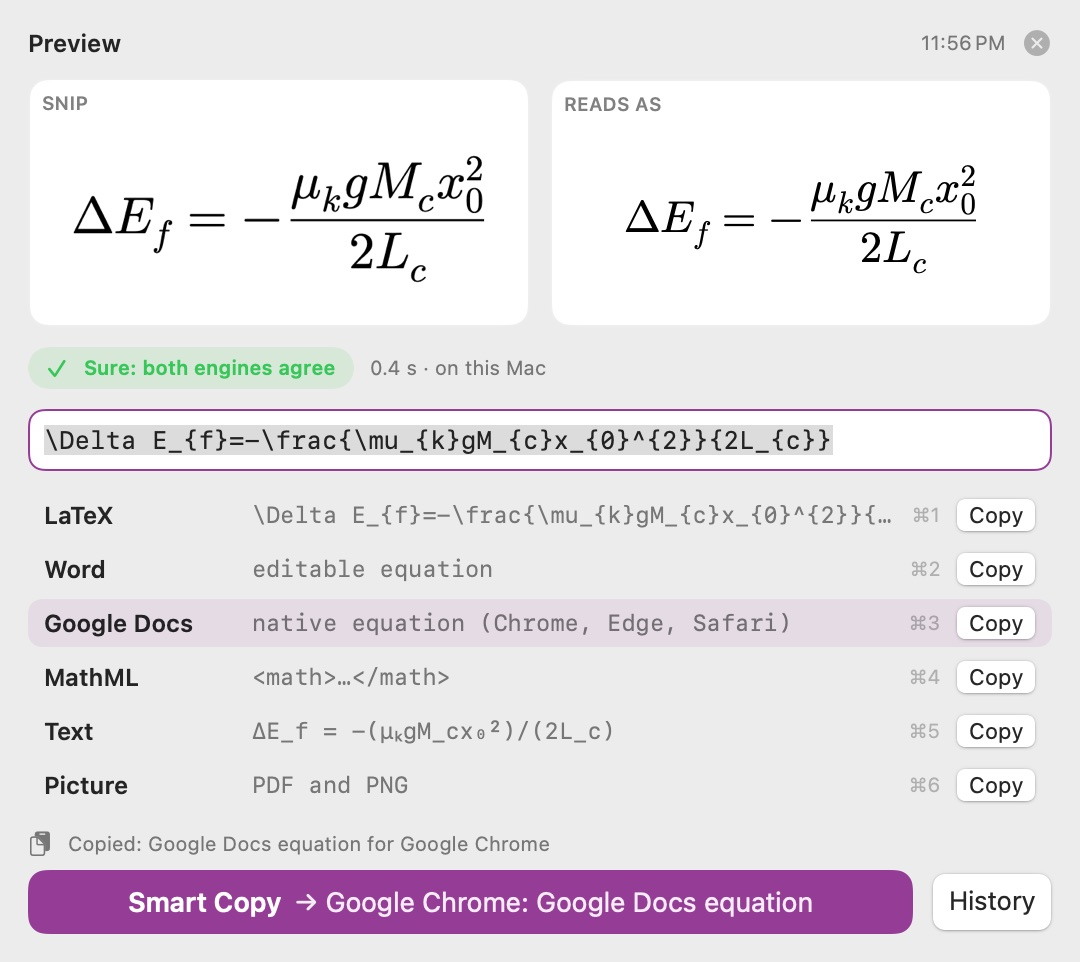
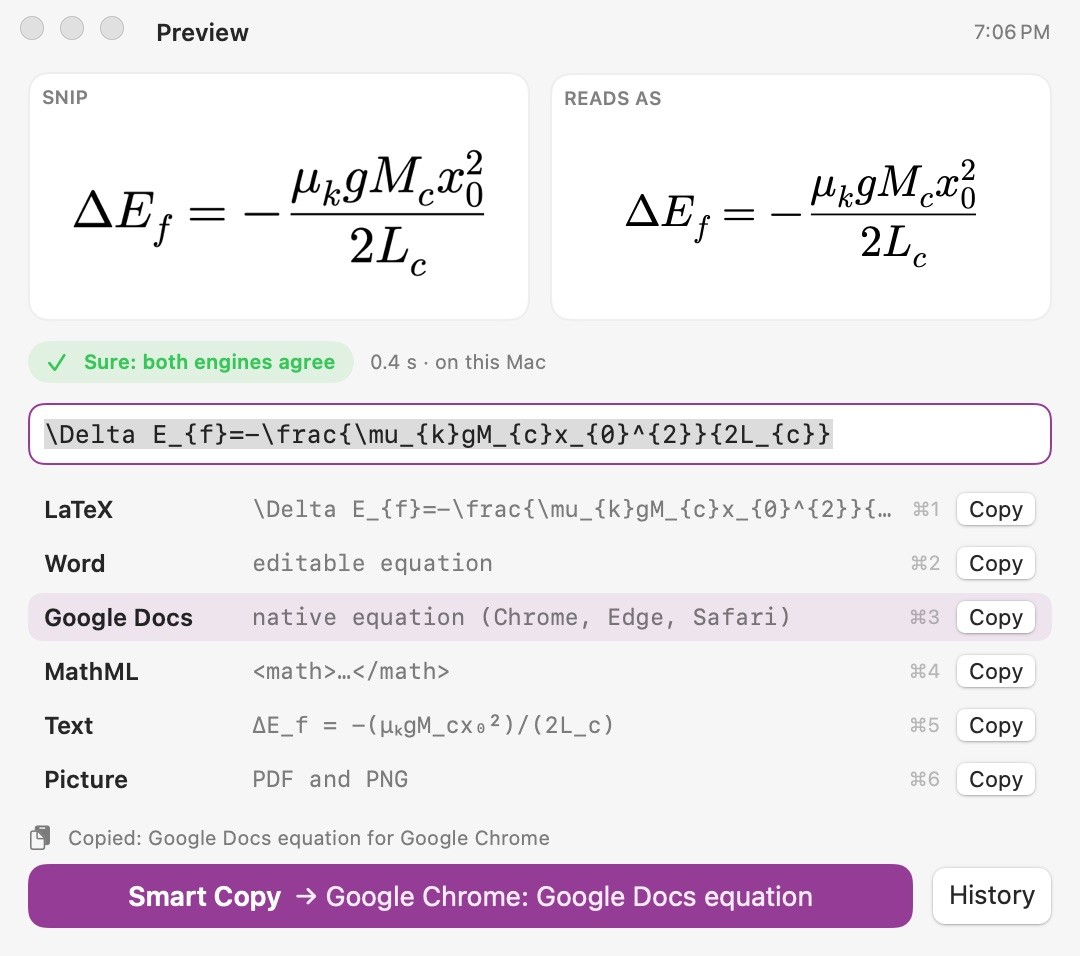
Publish Equate 1.0.1

diff --git a/apps/equate/readme.html b/apps/equate/readme.html
@@ -112,7 +112,7 @@ ol.rm .n{flex:none;width:24px;height:24px;border-radius:12px;display:grid;place-
 <main class="page readme">
   <div class="rmtop"><a class="back" href="./">&#8249; Equate</a><a href="../../readme/equate.txt">Plain text</a></div>
   <header class="rmhead"><img class="icon" src="../../icons/equate.png" alt="" width="64" height="64">
-    <div><h1>Read Me</h1><p>Equate 1.0.0 · how to install and use it</p></div>
+    <div><h1>Read Me</h1><p>Equate 1.0.1 · how to install and use it</p></div>
   </header>
   <p class="lead">Snip an equation anywhere on your screen and paste it as LaTeX, as a real equation in Word or Google Docs, as plain text or as a picture. Equate reads it on your Mac: no account, no limit, nothing is uploaded.</p>
 <h2>What's in this folder</h2>
@@ -124,7 +124,7 @@ ol.rm .n{flex:none;width:24px;height:24px;border-radius:12px;display:grid;place-
 <p>Prefer to do it by hand? Drag Equate into Applications and open it. The first time, macOS blocks it: go to System Settings → Privacy &amp; Security and click <b>Open Anyway</b>.</p>
 <h2>Using Equate</h2>
 <p>Equate lives in the menu bar (the blue square with an equals sign).</p>
-<ul class="rm"><li><b>Snip:</b> press Control-Option-E, then drag a box round an equation in a PDF, a web page or a picture. Esc cancels.</li><li>A panel shows what Equate read, next to your snip. It's already on the clipboard in the best form for the app you were in: just press Command-V. That's a real equation in Word and Google Docs, a sharp picture in Pages and Keynote, and $$ LaTeX $$ in Obsidian and Notion.</li><li>Want another format? The panel's buttons copy LaTeX (Command-1), a Word equation (Command-2), a Google Docs equation (Command-3), MathML (Command-4), plain text like μₛ and x² (Command-5) or a picture (Command-6).</li><li><b>Check it:</b> a green badge means two readers agreed. An orange one shows the other reading, and lets you swap a doubtful symbol (μ or P?) in one click. You can also edit the LaTeX in the panel.</li><li>More ways in, from the menu-bar menu:<ul><li>Snip Again (Control-Option-Shift-E) reads the same spot again.</li><li><b>Write with Trackpad (Control-Option-W):</b> write with your mouse, or click <b>Write with Finger</b> and write with one finger on the trackpad.</li><li><b>Open Image or PDF:</b> pick a PDF page and drag a box on it.</li><li><b>Take Photo with iPhone:</b> photograph the whiteboard.</li><li>You can also drop a picture or PDF onto the menu-bar icon.</li></ul></li><li>History keeps every equation. Search it, copy one again, or drag one into a document.</li><li><b>Settings:</b> change the shortcuts, what each app gets when you paste, LaTeX delimiters, picture size, and Launch at Login.</li></ul>
+<ul class="rm"><li><b>Snip:</b> press Control-Option-E, then drag a box round an equation in a PDF, a web page or a picture. Esc cancels.</li><li>A panel shows what Equate read, next to your snip. It's already on the clipboard in the best form for the app you were in: just press Command-V. That's a real equation in Word and Google Docs, a sharp picture in Pages and Keynote, and $$ LaTeX $$ in Obsidian and Notion. Close the panel with its red button or Esc.</li><li>Want another format? The panel's buttons copy LaTeX (Command-1), a Word equation (Command-2), a Google Docs equation (Command-3), MathML (Command-4), plain text like μₛ and x² (Command-5) or a picture (Command-6).</li><li><b>Check it:</b> a green badge means two readers agreed. An orange one shows the other reading, and lets you swap a doubtful symbol (μ or P?) in one click. You can also edit the LaTeX in the panel.</li><li>More ways in, from the menu-bar menu:<ul><li>Snip Again (Control-Option-Shift-E) reads the same spot again.</li><li><b>Write with Trackpad (Control-Option-W):</b> write with your mouse, or click <b>Write with Finger</b> and write with one finger on the trackpad.</li><li><b>Open Image or PDF:</b> pick a PDF page and drag a box on it.</li><li><b>Take Photo with iPhone:</b> photograph the whiteboard.</li><li>You can also drop a picture or PDF onto the menu-bar icon.</li></ul></li><li>History keeps every equation. Search it, copy one again, or drag one into a document.</li><li><b>Settings:</b> change the shortcuts, what each app gets when you paste, LaTeX delimiters, picture size, and Launch at Login.</li></ul>
 <p>Permission: the first snip asks for Screen Recording. Turn on Equate in System Settings → Privacy &amp; Security → Screen &amp; System Audio Recording, then snip again (macOS may ask you to reopen Equate).</p>
 <p>On macOS 27 with Apple Intelligence on, Apple's own reader gives a second opinion. Equate works without it.</p>
 <h2>Good to know</h2>

diff --git a/apps/equate/index.html b/apps/equate/index.html
@@ -115,12 +115,12 @@ ol.rm .n{flex:none;width:24px;height:24px;border-radius:12px;display:grid;place-
     <div><h1>Equate</h1>
     <p class="sum">Press ⌃⌥E and drag round an equation in a PDF, a web page or a picture. Equate reads it on your Mac and puts it on the clipboard in the best form for the app you're in: a real equation in Word and Google Docs, a sharp picture in Pages and Keynote, LaTeX everywhere else. It also reads PDFs, iPhone photos of the whiteboard and equations you write on the trackpad, and keeps a history. No account, no limit, nothing uploaded.</p>
     <p class="alt">An alternative to Mathpix Snipping Tool.</p>
-    <div class="acts"><a class="btn primary big" href="https://github.com/explainsims/store/releases/download/equate-1.0.0/Equate-1.0.0.zip">Download</a><small>1.0.0 · 273.8 MB · free</small><a href="#feedback"><svg width="14" height="14" viewBox="0 0 15 15" fill="none" stroke="currentColor" stroke-width="1.4" stroke-linejoin="round" aria-hidden="true"><path d="M2.2 3.6c0-.9.7-1.6 1.6-1.6h7.4c.9 0 1.6.7 1.6 1.6v5.2c0 .9-.7 1.6-1.6 1.6H6.4L3.6 12.8v-2.4c-.8 0-1.4-.7-1.4-1.6z"/></svg>Send Feedback</a></div>
+    <div class="acts"><a class="btn primary big" href="https://github.com/explainsims/store/releases/download/equate-1.0.1/Equate-1.0.1.zip">Download</a><small>1.0.1 · 273.9 MB · free</small><a href="#feedback"><svg width="14" height="14" viewBox="0 0 15 15" fill="none" stroke="currentColor" stroke-width="1.4" stroke-linejoin="round" aria-hidden="true"><path d="M2.2 3.6c0-.9.7-1.6 1.6-1.6h7.4c.9 0 1.6.7 1.6 1.6v5.2c0 .9-.7 1.6-1.6 1.6H6.4L3.6 12.8v-2.4c-.8 0-1.4-.7-1.4-1.6z"/></svg>Send Feedback</a></div>
     <p class="tip">Or get <a href="../../apps/storefront/">Storefront</a>: it installs Equate in one click, skips the Open Anyway step, and keeps it up to date.</p></div>
   </header>
   <section class="facts" aria-label="Facts">
-    <div><small>Version</small><b>1.0.0</b><i>latest</i></div>
-    <div><small>Size</small><b>273.8 MB</b><i>download</i></div>
+    <div><small>Version</small><b>1.0.1</b><i>latest</i></div>
+    <div><small>Size</small><b>273.9 MB</b><i>download</i></div>
     <div><small>Needs</small><b>macOS 14</b><i>or later</i></div>
     <div><small>Chip</small><b>Any Mac</b><i>Apple silicon and Intel</i></div>
     <div><small>Updated</small><b>14 Nov</b><i>2026</i></div>
@@ -131,7 +131,7 @@ ol.rm .n{flex:none;width:24px;height:24px;border-radius:12px;display:grid;place-
 </section>
 <dialog class="lightbox" aria-label="Screenshot"><img alt=""><button type="button" class="lb prev" aria-label="Previous">&#8249;</button><button type="button" class="lb next" aria-label="Next">&#8250;</button><button type="button" class="lb x" aria-label="Close">&times;</button></dialog>
   <section class="cols">
-    <div><h2>What's new in 1.0.0</h2><ul><li>First release: snip an equation and paste it as LaTeX, a Word or Google Docs equation, plain text or a picture. Read on your Mac, nothing uploaded.</li></ul></div>
+    <div><h2>What's new in 1.0.1</h2><ul><li>Snips now freeze the screen first, so what's inside your box is exactly what gets read (snips in some browsers were cut short on the right). The result panel has the usual close and minimise buttons.</li></ul></div>
     <div><h2>Good to know</h2><dl class="kv"><dt>Needs</dt><dd>Screen Recording for snipping. Apple's second opinion needs macOS 27 with Apple Intelligence on; Equate works without it</dd><dt>Licence</dt><dd>MIT</dd><dt>Read Me</dt><dd><a href="readme.html">How to use Equate</a></dd><dt>First open</dt><dd>macOS asks you to allow it once, under System Settings › Privacy &amp; Security › Open Anyway. Apps installed through Storefront skip that.</dd></dl></div>
   </section>
   <section class="fbcard" id="feedback"><div class="fbtop"><h2>Send feedback about Equate</h2><span class="priv"><svg width="12" height="12" viewBox="0 0 12 12" fill="none" stroke="currentColor" stroke-width="1.5" aria-hidden="true"><rect x="2" y="5.2" width="8" height="5.6" rx="1.4"/><path d="M3.8 5.2V3.8a2.2 2.2 0 0 1 4.4 0v1.4"/></svg>Private and anonymous</span></div>

diff --git a/index.html b/index.html
@@ -132,8 +132,8 @@ ol.rm .n{flex:none;width:24px;height:24px;border-radius:12px;display:grid;place-
   <div class="t"><h3><a class="cover" href="apps/citrus/">Citrus</a></h3><p class="tag">Convert files by dragging onto a pop-up wheel.</p><small>1.2.1 · 24.4 MB</small></div>
   <a class="btn get" href="https://github.com/explainsims/store/releases/download/citrus-1.2.1/Citrus-1.2.1.zip" aria-label="Download Citrus">Download</a></article>
 <article class="app" id="equate" data-kind="menubar" data-text="equate snip any equation, paste it as latex, word or google docs maths. press ⌃⌥e and drag round an equation in a pdf, a web page or a picture. equate reads it on your mac and puts it on the clipboard in the best form for the app you're in: a real equation in word and google docs, a sharp picture in pages and keynote, latex everywhere else. it also reads pdfs, iphone photos of the whiteboard and equations you write on the trackpad, and keeps a history. no account, no limit, nothing uploaded. mathpix snipping tool menu bar"><img class="icon" src="icons/equate.png" alt="" width="64" height="64" loading="lazy">
-  <div class="t"><h3><a class="cover" href="apps/equate/">Equate</a></h3><p class="tag">Snip any equation, paste it as LaTeX, Word or Google Docs maths.</p><small>1.0.0 · 273.8 MB</small></div>
-  <a class="btn get" href="https://github.com/explainsims/store/releases/download/equate-1.0.0/Equate-1.0.0.zip" aria-label="Download Equate">Download</a></article>
+  <div class="t"><h3><a class="cover" href="apps/equate/">Equate</a></h3><p class="tag">Snip any equation, paste it as LaTeX, Word or Google Docs maths.</p><small>1.0.1 · 273.9 MB</small></div>
+  <a class="btn get" href="https://github.com/explainsims/store/releases/download/equate-1.0.1/Equate-1.0.1.zip" aria-label="Download Equate">Download</a></article>
 <article class="app" id="figureit" data-kind="tools" data-text="figure it figures for tests and worksheets, with student copies and answer keys. 73 figures for physics, chemistry, biology, maths and economics. change the numbers and labels, make a student copy and an answer key, make versions a, b and c, then drag the figure into pages, keynote or google docs.  tools"><img class="icon" src="icons/figureit.png" alt="" width="64" height="64" loading="lazy">
   <div class="t"><h3><a class="cover" href="apps/figureit/">Figure It</a></h3><p class="tag">Figures for tests and worksheets, with student copies and answer keys.</p><small>0.5.11 · 5.4 MB</small></div>
   <a class="btn get" href="https://github.com/explainsims/store/releases/download/figureit-0.5.11/Figure-It-0.5.11.zip" aria-label="Download Figure It">Download</a></article>
